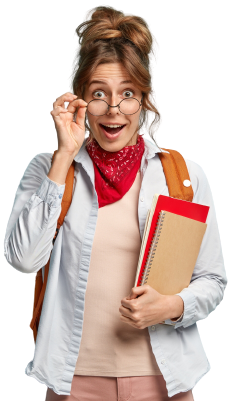
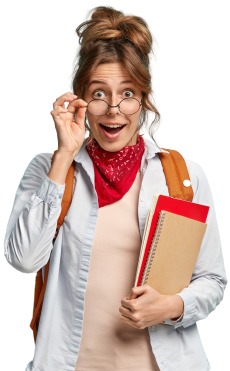
bug fix 3

diff --git a/assets/css/style.css b/assets/css/style.css
@@ -777,10 +777,6 @@ input:focus {
   color: #fff;
 }
 
-.banner-section {
-  padding-top: 80px;
-}
-
 .banner-details-area {
   padding-right: 50px;
 }
@@ -817,7 +813,7 @@ input:focus {
   content: "";
   position: absolute;
   left: 50%;
-  top: 15%;
+  top: 20%;
   -webkit-transform: translateX(-50%);
           transform: translateX(-50%);
   width: 575px;
@@ -831,13 +827,47 @@ input:focus {
 .banner-img {
   -webkit-transition: 1s;
   transition: 1s;
-  width: 320px;
-  height: 550px;
+  height: 620px;
 }
 
 .banner-img:hover {
   -webkit-animation: none;
           animation: none;
+}
+
+.banner-notifiation-1 {
+  position: absolute;
+  left: -60px;
+  bottom: 20%;
+  width: 280px;
+}
+
+.banner-notifiation-2 {
+  position: absolute;
+  right: -80px;
+  top: 50%;
+  width: 280px;
+}
+
+.banner-notifiation-3 {
+  position: absolute;
+  left: 10%;
+  top: 20%;
+  width: 60px;
+}
+
+.banner-notifiation-4 {
+  position: absolute;
+  right: 10%;
+  top: 35%;
+  width: 60px;
+}
+
+.banner-notifiation-5 {
+  position: absolute;
+  right: 10%;
+  bottom: 10%;
+  width: 60px;
 }
 
 .process-section {
@@ -1133,6 +1163,7 @@ input:focus {
 
 .course-price {
   font-size: 20px;
+  color: #0072ff;
 }
 
 .choose-section {

diff --git a/assets/scss/pages/_index.scss b/assets/scss/pages/_index.scss
@@ -1,7 +1,5 @@
 // banner-section scss start
-.banner-section {
-  padding-top: 80px;
-}
+
 .banner-details-area {
   padding-right: 50px;
 }
@@ -32,7 +30,7 @@
     content: "";
     position: absolute;
     left: 50%;
-    top: 15%;
+    top: 20%;
     transform: translateX(-50%);
     width: 575px;
     height: 575px;
@@ -45,11 +43,40 @@
 .banner-img {
   // animation: banner-animation 15s infinite linear;
   transition: 1s;
-  width: 320px;
-  height: 550px;
+  height: 620px;
   &:hover {
     animation: none;
   }
+}
+.banner-notifiation-1 {
+  position: absolute;
+  left: -60px;
+  bottom: 20%;
+  width: 280px;
+}
+.banner-notifiation-2 {
+  position: absolute;
+  right: -80px;
+  top: 50%;
+  width: 280px;
+}
+.banner-notifiation-3 {
+  position: absolute;
+  left: 10%;
+  top: 20%;
+  width: 60px;
+}
+.banner-notifiation-4 {
+  position: absolute;
+  right: 10%;
+  top: 35%;
+  width: 60px;
+}
+.banner-notifiation-5 {
+  position: absolute;
+  right: 10%;
+  bottom: 10%;
+  width: 60px;
 }
 // banner-section scss end
 
@@ -265,6 +292,7 @@
 }
 .course-price {
   font-size: 20px;
+  color: $main-color;
 }
 //  course-section scss end
 

diff --git a/index.html b/index.html
@@ -179,7 +179,32 @@
             <div class="banner-img-area">
               <img
                 class="banner-img"
-                src="assets/images/banner-img.png"
+                src="assets/images/banner-img-2.png"
+                alt=""
+              />
+              <img
+                class="banner-notifiation-1"
+                src="assets/images/banner-notification-1.png"
+                alt=""
+              />
+              <img
+                class="banner-notifiation-2"
+                src="assets/images/banner-notification-2.png"
+                alt=""
+              />
+              <img
+                class="banner-notifiation-3"
+                src="assets/images/banner-notification-3.png"
+                alt=""
+              />
+              <img
+                class="banner-notifiation-4"
+                src="assets/images/banner-notification-4.png"
+                alt=""
+              />
+              <img
+                class="banner-notifiation-5"
+                src="assets/images/banner-notification-5.png"
                 alt=""
               />
             </div>
